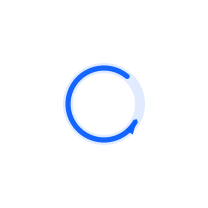
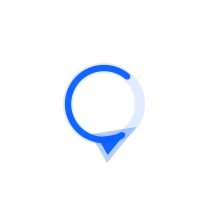
Make Siri Remote scroll feedback clearer

Changed region(s): [[0.2885, 0.2885, 0.6635, 0.7788]]

diff --git a/Sources/RemoteMic/SiriRemoteCursorFeedbackController.swift b/Sources/RemoteMic/SiriRemoteCursorFeedbackController.swift
@@ -482,7 +482,7 @@ final class SiriRemoteCursorFeedbackView: NSView {
 
         let sign: CGFloat = direction == .clockwise ? -1 : 1
         let startAngle: CGFloat = direction == .clockwise ? 130 : 50
-        let sweep: CGFloat = 280
+        let sweep: CGFloat = 250
         let segmentCount = 40
         let arc = NSBezierPath()
         var endPoint = center
@@ -504,15 +504,15 @@ final class SiriRemoteCursorFeedbackView: NSView {
             endAngle = radians
         }
         NSColor.controlAccentColor.withAlphaComponent(0.96).setStroke()
-        arc.lineWidth = 2.6
+        arc.lineWidth = 3.2
         arc.lineCapStyle = .round
         arc.stroke()
 
         let tangentAngle = endAngle + sign * CGFloat.pi / 2
         let tangent = NSPoint(x: cos(tangentAngle), y: sin(tangentAngle))
         let normal = NSPoint(x: -tangent.y, y: tangent.x)
-        let arrowLength = max(6, min(10, radius * 0.28))
-        let arrowWidth = arrowLength * 0.7
+        let arrowLength = max(10, min(16, radius * 0.62))
+        let arrowWidth = arrowLength * 0.9
         let tip = NSPoint(
             x: endPoint.x + tangent.x * 2,
             y: endPoint.y + tangent.y * 2
@@ -532,6 +532,9 @@ final class SiriRemoteCursorFeedbackView: NSView {
             y: baseCenter.y - normal.y * arrowWidth / 2
         ))
         arrow.close()
+        NSColor.controlAccentColor.withAlphaComponent(0.3).setStroke()
+        arrow.lineWidth = 4.5
+        arrow.stroke()
         NSColor.controlAccentColor.withAlphaComponent(0.96).setFill()
         arrow.fill()
     }
